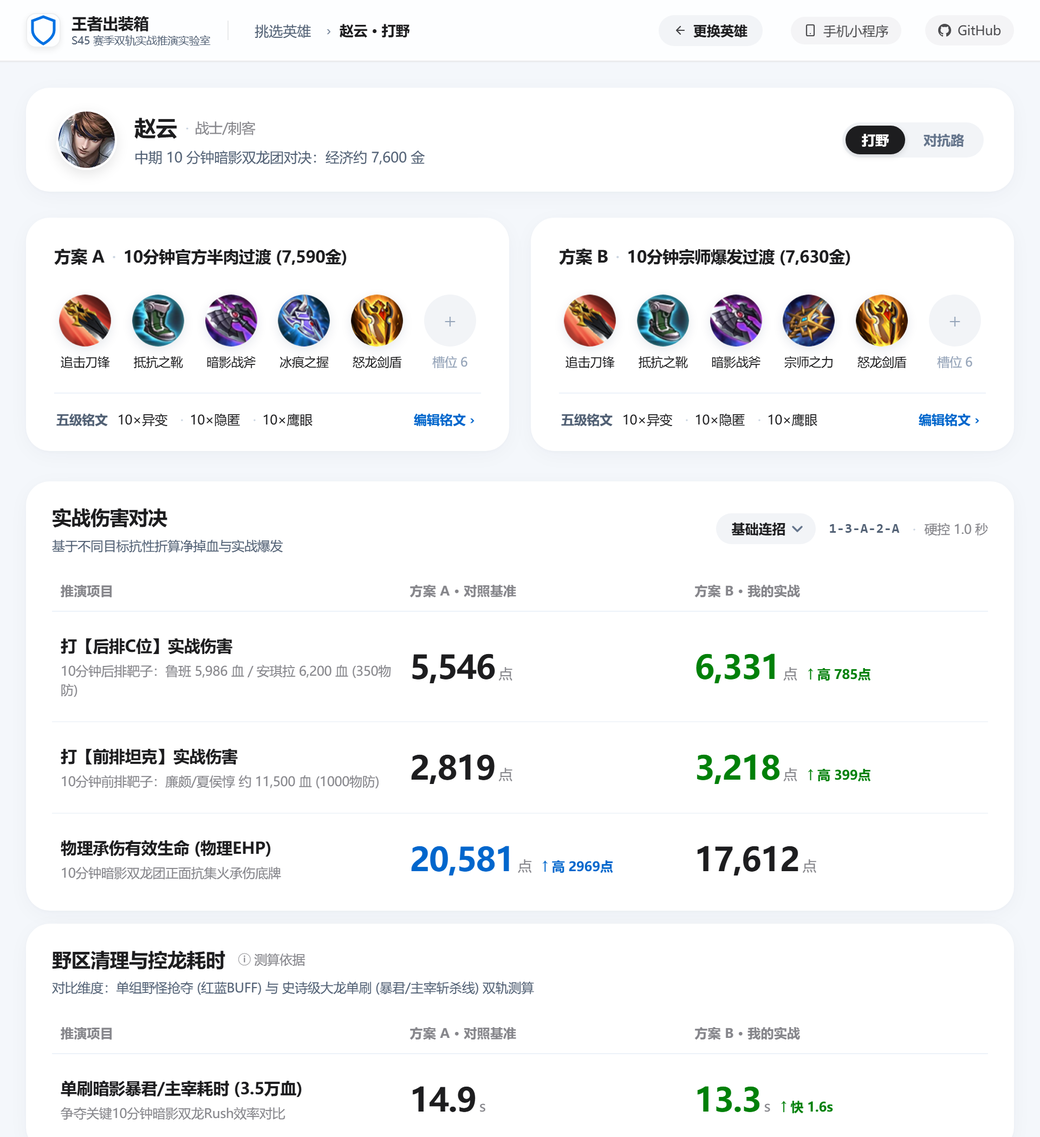
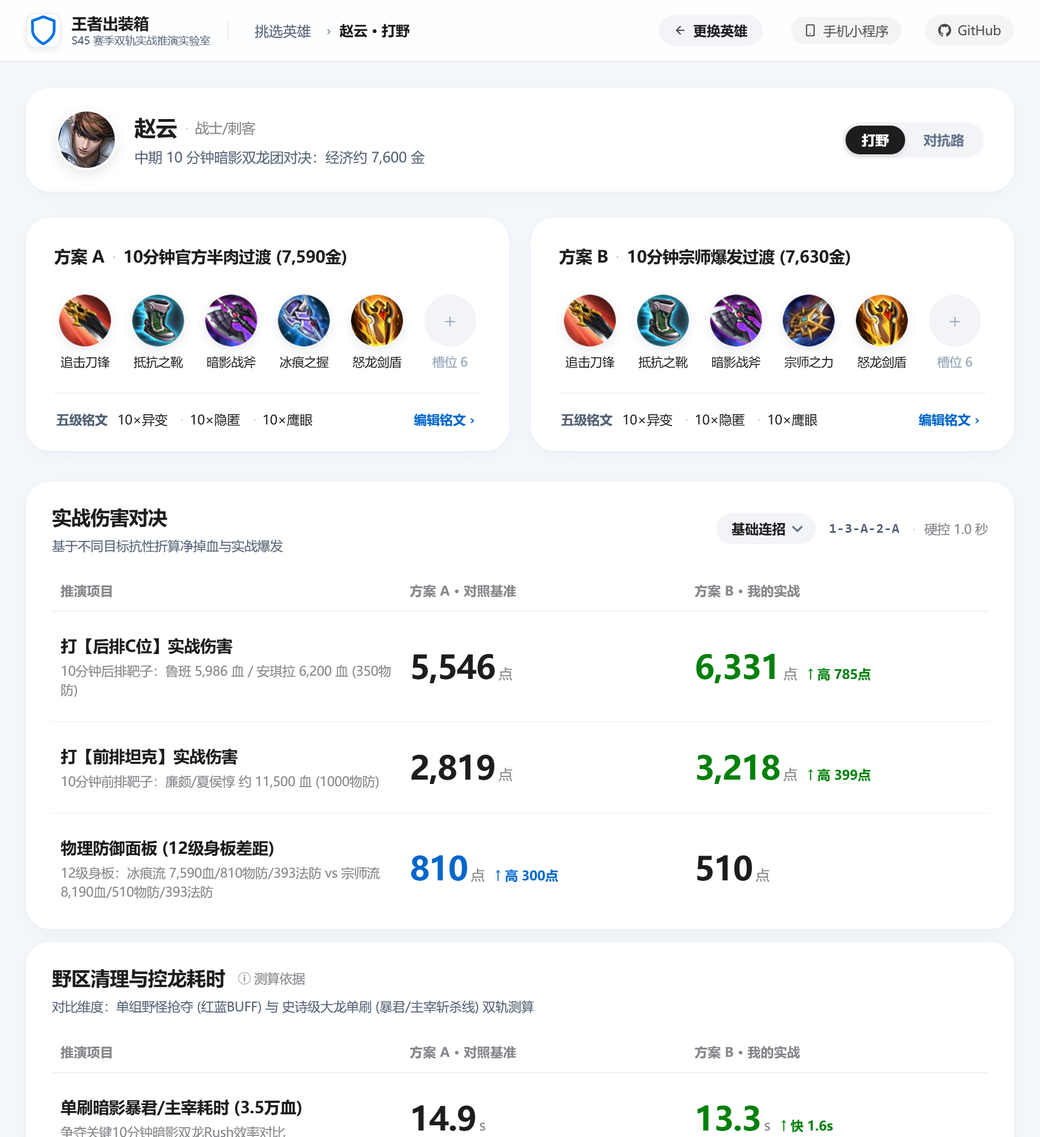
docs(guide): refine S45 Zhao Yun guide with 5-dimension evaluation framework and defense stats

diff --git a/docs/guides/zhaoyun_jungle_guide.md b/docs/guides/zhaoyun_jungle_guide.md
@@ -1,175 +1,192 @@
 # 赵云打野出装详解：从前中期过渡到后期三大变阵的数据拆解
 
-10月15日正式服对赵云的 2 技能回血和大招冷却做了一波调整。趁着这次改动，想结合我平时排位的实际体感和具体测试数据，和大家平静地聊一聊这个版本打野赵云的出装思路。
+10月15日正式服对赵云的 2 技能回血和大招冷却进行了调整。本文结合版本改动、训练营面板与「王者出装箱」推演数据，从**输出爆发、身板双抗（生命/物防/法防与承伤上限）、技能冷却与续航、机动性、经济合成与控龙效率**五个维度，对当前版本打野赵云的出装体系进行全面评估。
 
-平时单排玩赵云的朋友应该深有体会，这英雄走极端路线往往不太好赢：全输出装容错率实在太低，团战稍微吃个不明AOE或者小控制，大招还没落地人就先融化了；但要是纯堆肉，中期开始伤害就明显跟不上，一套技能全砸射手身上，对面可能还有小半管血反手把你风筝死。所以综合下来，兼顾容错和切C能力的**半肉流**依然是单排最稳的选择——这也是为什么这篇内容会拿**官方推荐半肉装**作为参考基准。
+赵云在出装走向上如果过于极端，实战容错率往往不高：全输出装身板过脆，团战吃到 AOE 或控制容易进场即被秒；纯肉装从中后期开始又会面临缺乏穿透与额外 AD 加成的问题，一套技能打不死后排反而容易被风筝。因此，兼顾容错率与切 C 能力的**半肉流**是目前综合表现更均衡的选择，本文也以**官方推荐半肉装**作为基准参照。
 
-不过同样是半肉底子，实战里大家经常会有纠结的地方：比如打野刀到底是贪点穿透出红刀，还是求稳出肉刀？最后两件装备该补不死鸟、暴烈还是碎星锤？其实玩多了就会发现，没有哪套出装是绝对完美的，换掉任何一件装备，本质上都是在**前中期抓人节奏、技能CD手感、以及团战能不能站得住**之间做取舍。
+同样是半肉底子，不同出装在实战中的优劣势差异明显：比如打野刀是出红刀补攻击与冷却，还是出肉刀撑万血？防装是保留怒龙剑盾、暴烈之甲，还是替换为不死鸟之眼、魔女斗篷或碎星锤？下面按照对局真实经济节奏，分**后期（15分钟六神装全局评估）、前期（5分钟第一大件与12格预设）、中期（8~10分钟大红刀升级节点与双龙团过渡）**进行拆解。
 
-为了不光靠主观感觉下结论，我用自己平时测数据用的「**王者出装箱**」，顺着排位真实的经济节奏，按**前期（5分钟第一大件）、中期（10分钟双龙团三大件）、后期（15分钟六神装）**三个时间点，把官方推荐装和另外 3 套常用变阵完整算了一遍。每套出装在不同阶段到底差在哪，我们结合数据和实战场景慢慢看。
-
-> **测试条件说明**：统一带百穿隐匿铭文（**10异变 + 10鹰眼 + 10隐匿**）；伤害按赵云最基础的一套进场连招 **1-3-A-2-A** 计算（1技能突进 + 大招击飞挂感电 + 强化普攻 + 2技能刺满 + 补一发普攻）。
+> **测试条件说明**：统一携带百穿隐匿铭文（**10异变 + 10鹰眼 + 10隐匿**）；伤害按赵云基础进场连招 **1-3-A-2-A** 计算（1技能突进 + 大招击飞挂感电 + 强化普攻 + 2技能4段刺满 + 补一发普攻）。
 
 ---
 
-## 一、 四套六神装整体对比：换一件装备，手感差在哪？
+## 一、 四套六神装全维度评估：优势与短板拆解
 
-在聊前中期怎么过渡之前，我们先看一眼 15 级满级六神装成型后，这 4 套出装在面板和实战表现上的整体差异：
+先看 15 级满级六神装成型后，官方推荐半肉流与 3 套常用变阵在「王者出装箱」五个核心维度上的完整数据对比：
 
-### 📊 表 1：赵云打野 4 套六神装核心数据对比（15级满级·满层野刀）
+### 📊 表 1：赵云打野 4 套六神装全维度数据对比（15级满级·满层野刀）
 
-| 对比维度 | ① 官方推荐半肉流 | ② 不死鸟续航流 | ③ 碎星锤破甲流 | ④ 肉刀破军流 |
+| 评估维度 | ① 官方推荐半肉流 | ② 不死鸟续航流 | ③ 碎星锤破甲流 | ④ 肉刀破军流 |
 | :--- | :--- | :--- | :--- | :--- |
 | **成型总金币** | 11,040 金 | **11,020 金** | 11,070 金 | 11,530 金 (最贵) |
-| **物攻 / 冷却缩减** | 761 / 32.5% | 761 / 32.5% | 816 / 32.5% | 711 / **35.0%** |
-| **生命 / 物防 / 法防** | 9,332 / **1,095** / 419 | 9,582 / 1,035 / **449** | 9,032 / 885 / 419 | **10,282 (万血)** / 885 / 419 |
-| **物穿 / 面板移速** | 280 / 494 | 280 / 494 | **280+30%** / **527 (最快)** | 280 / 494 |
-| **物理抗伤总量** | **26,306 (最抗物理)** | 26,056 | 22,310 | 25,398 |
-| **法术抗伤总量** | 15,827 | 16,729 | 15,318 | **17,438 (高血量撑腰)** |
-| **秒脆皮连招伤害** | 6,965 | 6,322 | 6,833 | **7,030 (爆发最高)** |
-| **打千防坦克伤害** | 3,541 | 3,213 | **4,022 (打肉最疼)** | 3,574 |
-| **2技能回血 (满血/残血)** | 1,323 / 1,323 | 1,348 / **1,961** | 1,307 / 1,307 | **1,406** / 1,406 |
-| **单刷大龙用时** | 11.2 秒 | 13.3 秒 | 11.3 秒 | **10.2 秒** |
+| **物理攻击 / 物理穿透** | 761 / 280 | 761 / 280 | **816** / **280+30%** | 711 / 280 |
+| **冷却缩减 (1/2/3技能CD)** | 32.5% (4.1/3.4/8.8s) | 32.5% (4.1/3.4/8.8s) | 32.5% (4.1/3.4/8.8s) | **35.0% (3.9/3.3/8.5s)** |
+| **最大生命值** | 9,332 | 9,582 | 9,032 (最低) | **10,282 (唯一破万)** |
+| **物理防御 (面板免伤)** | **1,095 (65%免伤)** | 1,035 (63%免伤) | 885 (60%免伤) | 885 (60%免伤) |
+| **法术防御 (面板免伤)** | 419 (41%免伤) | **449 (43%免伤)** | 419 (41%免伤) | 419 (41%免伤) |
+| **物理 / 法术承伤上限 (EHP)** | **26,306** / 15,827 | 26,056 / 16,729 | 22,310 / 15,318 | 25,398 / **17,438** |
+| **面板移速** | 494 | 494 | **527 (最快)** | 494 |
+| **打【中射】爆发伤害 (350防)** | 6,965 | 6,322 | 6,833 | **7,030 (最高)** |
+| **打【坦克】爆发伤害 (1000防)** | 3,541 | 3,213 | **4,022 (最高)** | 3,574 |
+| **2技能回血 (健康 / ≤30%残血)** | 1,323 / 1,323 | 1,348 / **1,961** | 1,307 / 1,307 | **1,406** / 1,406 |
+| **单刷大龙耗时 (3.5万血)** | 11.2 秒 | 13.3 秒 | 11.3 秒 | **10.2 秒** |
 
-从表里能很直观地看出来，这四套出装各有各的侧重点，没有哪一套是全能的。具体到排位里怎么选，我们可以挨个看看它们的脾气：
+从表中可以看到，没有任何一套出装能在所有维度同时占优，每套方案都是在**爆发伤害、打肉效率、物理/法术身板、残血续航与经济平滑度**之间做取舍。下面对四套方案的优势与短板逐一评估：
 
 ---
 
-### 1. 官方推荐半肉流：最稳妥的常规万金油
+### 1. 官方推荐半肉流：物理承伤与切 C 均衡的基准方案
 
 ![官方推荐半肉流](./assets/strip_01_official.png)
 
-这套是系统默认给的半肉方案，算完数据之后会发现，它能成为官方推荐确实是有道理的。
-
-它的优势在于**物防够高，同时切后排伤害刚好够用**。近 1100 的物防加上九千多血，团战进场抗对面射手和战边的伤害非常扎实；而且一套连招将近 7000 的伤害，再交个红惩击，刚好能把 15 级没出防装的呆射或法师收掉。
-
-但它也有两个玩起来比较难受的地方：一是只有黑切和红刀的固定穿透，后期碰到对面廉颇、白起这种过千护甲的大肉，一套打上去才三千出头，确实打不动；二是魔抗全靠抵抗鞋和黄盾（怒龙剑盾）撑着，如果对面法师发育很好，或者干脆是双法伤阵容，团战还没近身就容易被消耗掉大半管血。**如果两边阵容都比较常规、局势也比较均势，无脑按这套出是最不容易出错的。**
+* **核心优势**：
+  1. **物理抗伤能力最强**：三件防装（`冰痕之握 +300物防`、`暴烈之甲 +210物防`、`怒龙剑盾 +150物防`）将满级物防堆至 **1,095 点（65%物理免伤）**，配合 9,332 点生命值，折算物理承伤上限达 **26,306**（四套最高），正面承受敌方射手、物理刺客与战边的输出非常扎实；
+  2. **后排斩杀线与刷龙速度达标**：依托暗影战斧、冰痕强击、怒龙剑盾被动（3.5%最大生命物理伤害）以及暴烈之甲叠满后的 10% 增伤，一套连招打中射脆皮可达 **6,965 点**，配合红惩击刚好覆盖 15 级无防装后排（约 7,000 血）的斩杀线，单刷大龙仅需 **11.2 秒**；
+  3. **冷却与移速手感均衡**：常驻 32.5% 冷却缩减（2技能 3.4 秒、大招 8.8 秒），面板移速 494（触发暴烈被动最高可达 532）。
+* **主要短板**：
+  1. **法防面板偏薄（重物防、轻法防）**：全身仅靠 `抵抗之靴 (+100法防)` 和 `怒龙剑盾 (+150法防)` 提供魔抗，满级法防仅 **419 点（41%法术免伤）**，折算法术承伤上限为 15,827。到了中后期，敌方法师做出 `虚无法杖（45%法穿）` 与常规法穿铭文/秘法鞋后，这 419 点法防扣完穿透仅剩 **60~80 点（实际法术免伤跌至约 10%）**，面对高法伤阵容时容易被快速压低血线；
+  2. **缺乏百分比破甲**：仅有 280 点固定物穿，打千防坦克一套伤害为 **3,541 点**，后期处理多前排阵容效率有限。
+* **适用场景**：双方阵容常规、敌方法术威胁适中、单前排的均势对局。
 
 ---
 
-### 2. 不死鸟续航流：残血拉扯与抗法伤首选
+### 2. 不死鸟续航流：强化残血回复拉扯，但牺牲爆发且面板法防提升有限
 
 ![不死鸟续航流](./assets/strip_02_phoenix.png)
 
-这套是把官方流里的黄盾（怒龙剑盾）换成了 `不死鸟之眼`。
+这套是将官方流中的怒龙剑盾替换为 `不死鸟之眼`。
 
-很多人平时爱出不死鸟，主要是因为它跟赵云的被动机制特别搭。赵云血量降到 40% 以下进入三档【飞龙在天】时，本身就有 20% 的免伤；而此时不死鸟的回血加成也叠起来了。从测试数据来看，30% 血量以下扎出一个 2 技能，一口能回 **1,961 点血**，比不出不死鸟足足多回六百多。实战里那种残血丝血反杀、或者吃完一套法师爆发扭头扎野怪一口回上来的名场面，基本都是这套出装打出来的。
-
-不过换掉黄盾之后，代价也很明显——**你失去了单人满血秒后排的能力**。一套技能打脆皮只有 6,322 的伤害，如果没队友帮忙压血线，你大招扎进去打完一套，对面射手往往还剩丝血能闪现拉开，你得追着多平A一两下才杀得死，打龙速度也会慢上两秒左右。所以这套更适合**对面有火舞、安琪拉、干将这种高爆发法师，或者对面是双法核（比如中单法师+法系打野/大司命/艾琳）**的对局，先保证自己进场不蒸发，再去谈持续作战。
+* **核心优势**：
+  1. **残血极限续航与多轮拉扯能力突出**：赵云血量低于 40% 进入三档被动【飞龙在天】时自带 **20% 免伤**，此时不死鸟之眼的血统被动同步叠高。实测在 30% 血量以下释放 2 技能，单次可回复 **1,961 点生命**（比官方流多回 **638 点**），在持续拉扯团战与残血反打中优势明显；
+  2. **生命值与物防依然稳固**：生命值提升至 **9,582 点**，物理防御保持在 **1,035 点（63%物理免伤）**，物理承伤上限（26,056）与官方流基本持平。
+* **主要短板**：
+  1. **失去单人满血秒 C 能力，刷龙变慢**：换掉怒龙剑盾后，失去其按最大生命值计算的被动伤害，打后排脆皮一套伤害降至 **6,322 点**（比官方流少 643 点），无法一套秒杀满血后排，进场打完一套需追击补一两发普攻；单刷大龙耗时也从 11.2 秒增加到 **13.3 秒**；
+  2. **面板法防仅比官方流多 30 点（419 → 449）**：被替换的 `怒龙剑盾` 本身带有 150 法防，而 `不死鸟之眼` 为 `+90物防 / +180法防 / +1350生命`，替换后面板法防仅升至 **449 点（43%法术免伤，仅提高 2%）**。因此它抗法伤的机制是“吃完第一波伤害不死、靠 2 技能高额回血把血线抬回来”，而非靠高魔抗硬吃爆发。若敌方是安琪拉、干将莫邪、不知火舞等超高爆发法师且发育超前，一套直接灌死不给回血机会，则应将不死鸟替换为 **`魔女斗篷`（`+300法防 / +1100生命`，面板法防提至 `569`［49%免伤］并附带 `1,000+` 法术护盾与被动转化 `45物防`）**。
+* **适用场景**：敌方为消耗型法师（沈梦溪、嬴政、扁鹊等）、双法伤阵容或多回合拉扯团战。
 
 ---
 
-### 3. 碎星锤破甲流：专治多前排与防装射手
+### 3. 碎星锤破甲流：双穿与移速拉满，但身板双防与血量最薄
 
 ![碎星锤破甲流](./assets/strip_03_fullcd.png)
 
-平时打排位最头疼的一种局，就是对面选出张飞、廉颇、夏侯惇这种大前排死保射手，甚至连对面的狄仁杰、公孙离到了中后期都补了一件不祥征兆。这时候你再按常规半肉出，进场根本切不动人。
+这套是将官方流最后一件暴烈之甲替换为 `碎星锤`。
 
-把最后一件暴烈之甲换成改版后的 `碎星锤`，就是专门用来处理这种铁桶阵的。现在的碎星锤除了 30% 物理穿透，还给 700 血量和 7.5% 移速。跟黑切叠在一起做成“双穿”之后，不仅打坦克疼了很多，更重要的是**面板移速直接来到了 527**（比另外三套快了 33 点）。平时玩赵云的朋友都知道移速有多关键，高移速意味着你支援转线更快，团战打完一套拉出来等技能CD也更从容。
-
-当然，少了暴烈之甲的 210 点物防，你的正面抗揍能力会掉一个档次（物理抗伤总量少了大概四千点）。选这套的时候，团战思路就要稍微变一变，不能再像重装流那样正面硬吃伤害，而是多利用移速优势绕侧面找机会，打完一套先拉扯出来等第二个 2 技能。
+* **核心优势**：
+  1. **打前排与半肉后排效率最高**：暗影战斧（180物穿）+ 百穿铭文（100物穿）+ 碎星锤（30%物穿）组成“双穿”，物理攻击升至四套最高的 **816 点**，打千防坦克一套伤害提升至 **4,022 点**（比官方流高约 14%），打补出不祥征兆的半肉射手（620物防）伤害达 **5,296 点**；
+  2. **机动性全方案最高**：碎星锤提供 7.5% 移速加成，使常态面板移速达到 **527 点**（比其余三套快 33 点），带线牵制、支援转线与团战侧翼进出更加灵活。
+* **主要短板**：
+  1. **身板在四套中最薄**：少了暴烈之甲的 210 点物防与 300 点生命差额后，最大生命值降至 **9,032 点**（四套最低），**物理防御从 1,095 降至 885 点（60%物理免伤）**，法术防御仍为 **419 点（41%法术免伤）**，折算物理承伤上限降至 **22,310**（比官方流低约 4,000 点），正面抗集火能力明显下降；
+  2. **打无防装脆皮伤害略低于暴烈之甲**：面对 350 物防的无防装后排，30% 物理穿透换算出的破甲收益低于暴烈之甲满层 10% 增伤，因此秒脆皮伤害（6,833）反而比官方流（6,965）低 132 点。
+* **适用场景**：敌方多前排坦克（张飞、廉颇、夏侯惇、白起）保排，或敌方射手在中后期补出不祥征兆/暴烈之甲的对局；团战需避开正面硬顶，利用高移速从侧翼切入拉扯。
 
 ---
 
-### 4. 肉刀破军流：顺风局的万血收割装
+### 4. 肉刀破军流：万血高斩杀与最快控龙，但双防偏低且中期合成卡手
 
 ![肉刀破军流](./assets/strip_04_meat_pojun.png)
 
-如果既想要破万血的厚实身板，又想保留一套秒人的爽快感，很多老赵云会走这套「肉刀 + 黄盾 + 破军」的路线。
+这套采用「巨人之握 + 怒龙剑盾 + 破军」的组合，以高血量联动黄盾被动与破军斩杀。
 
-巨人之握叠满之后血量直接破万（10,282 血）。高血量对赵云有双重好处：一方面 2 技能回血有生命值加成，另一方面黄盾的被动伤害也是按最大生命值算的。再加上破军改版后补了 5% 冷却缩减，这套成型之后的面板非常豪华——**万血、35% 冷却、7,030 的最高切C爆发、外加 10.2 秒的最快刷龙速度**。
-
-既然成型这么强，为什么不每把都出？原因很简单：**太贵，而且憋破军的那段时间太难受了**。破军一件就要 2,540 金币，比别的装备贵出小五百块，合成路径里还要憋两把风暴巨剑。如果是均势局甚至逆风局，你在中期花两三分钟强行憋破军，这段时间身上一直没大件更新，团战会非常乏力。所以这套我一般只在**前期大顺风、经济领先明显**，或者**自家队友实在缺少收割能力、必须靠我一个人把对面后排按死**的时候才会出。
+* **核心优势**：
+  1. **万血联动高爆发与最快控龙**：巨人之握叠满后生命值达到 **10,282 点**（唯一破万），同时放大了 2 技能的生命加成回血（常态回 **1,406 点**）与怒龙剑盾按最大生命计算的被动伤害；配合破军 +150 物攻与残血 30% 增伤，秒脆皮伤害达到最高的 **7,030 点**，单刷大龙缩短至 **10.2 秒**；
+  2. **冷却最高且抗法伤/真伤容错更好**：破军提供 5% 冷却缩减，使总冷却达到 **35.0%**（2技能 3.3 秒、大招 8.5 秒）；虽然面板法防同样为 419 点，但凭借 10,282 的高血量池，折算法术承伤上限达到 **17,438**（四套最高），面对高法穿法师或吕布、马可波罗等真实伤害英雄时比单纯堆物防更耐打。
+* **主要短板**：
+  1. **成型造价最贵、中期合成断档期长**：总价 **11,530 金币**（比其余三套贵约 500 金币），其中破军单件高达 2,540 金币且需攒两把风暴巨剑，均势或逆风局在中期憋破军会导致长时间无大件更新；
+  2. **物理防御偏低（885 点）**：由于未出暴烈之甲，面板物防仅 **885 点（60%物理免伤）**，面对敌方射手持续物理普攻时掉血速度比官方流快。
+* **适用场景**：前期大顺风、经济明显领先，或团队缺乏收割能力、需要打野提供主力斩杀的对局。
 
 ---
 
-## 二、 前期与局内12格预设：第一大件千万别按系统顺序先出黄盾
+## 二、 前期（4~5分钟）与局内12格预设：第一大件的机制与数值对比
 
-聊完了六神装的取向，我们回到开局前 5 分钟的合成细节。这也是很多刚上手半肉赵云的朋友最容易踩坑的地方。
+在系统默认的官方推荐出装顺序中，`怒龙剑盾`（黄盾）排在 `暗影战斧`（黑切）之前。但从装备机制、合成路径与 5 分钟数值测算来看，**第一大件应优先调整顺序先出暗影战斧，不宜第一件裸出怒龙剑盾**：
 
-大家如果直接点开系统推荐出装，会发现系统经常把 `怒龙剑盾`（黄盾）排在 `暗影战斧`（黑切）前面。但实战里，**第一大件一定要手动调顺序先出暗影战斧，千万不要第一件裸黄盾。**
+1. **被动收益机制差异**：怒龙剑盾的被动重创伤害（对野怪 7% 最大生命、对英雄 3.5% 最大生命）与回血均按**最大生命值百分比**计算。在 4~5 分钟（约 7 级）节点，赵云基础血量尚低且没有其他生命装支撑，裸出黄盾的被动收益有限；
+2. **S45 合成小件属性差异**：怒龙剑盾由 `守护者之铠 (800金) + 神隐斗篷 (800金)` 合成，属于纯防御装，**不提供物理攻击、物理穿透与冷却缩减**；而暗影战斧由 `陨星 (760金，铁剑+元流结晶) + 日冕 (750金)` 合成，前期先花 760 金币做出 **陨星**（`+35物攻 / +50物穿 / +7.5%冷却`），能够直接发挥赵云技能的高额 AD 加成并缩短技能真空期。
 
-为什么先出黄盾会觉得特别“刮痧”？这和黄盾的机制以及合成小件有关：
-1. **被动吃最大生命值**：黄盾的被动重创伤害和回血，都是按英雄的**最大生命值百分比**来算的。在游戏刚到 4~5 分钟（大概 7 级）的时候，赵云本身的基础血量还没长起来，身上也没有别的肉装支撑，裸一个黄盾根本打不出多少被动伤害；
-2. **合成小件零进攻属性**：看 S45 的合成路径，黄盾是由 `力量腰带 (900金) + 神隐斗篷 (800金)` 合成的纯防装，**不加一点攻击力、穿透和冷却缩减**；而暗影战斧是由 `陨星 (760金，铁剑+元流结晶) + 搏击拳套 (550金)` 合成的，前期先花 760 金币做出 **陨星**（`+35物攻 / +50物穿 / +7.5%冷却`），赵云技能的高额 AD 加成和刷野抓人节奏立刻就出来了。
-
-为了方便大家直接在游戏里照着配装，我把经过实战和数值测算优化后的 **「局内 12 格小件预设与合成路线」** 整理在了下面，再把 5 分钟（7级，约 3,490 金币）先出黑切与先出黄盾的实测对比放出来：
+下面是结合全时期过渡整理的 **「局内 12 格小件预设与合成路线」**，以及 5 分钟（7级，约 3,490 金币）先出暗影战斧与先出怒龙剑盾的实测对比：
 
 ![局内12格小件过渡与合成路线](./assets/strip_05_early_order.png)
 
 ![5分钟前期：先出暗影战斧 vs 先出怒龙剑盾 实测对比](./assets/ui_01_early_5min.png)
 
-看上面的实测图就能明白为什么体感差距那么大了：
-7 级的时候，对面后羿、鲁班、安琪拉这些脆皮的满血量基本都在 **4,050 ~ 4,150** 左右。如果你第一件先出暗影战斧（第 4 格先做 760 金币的陨星过渡），一套连招能打 **4,075 点伤害**，配合线上队友随便蹭一下或者交个惩击，抓人是一抓一个准；但要是先出了黄盾，一套打完只有 **3,295 点伤害**，足足差了近 800 滴血，经常是大招扎中了、技能也全交了，结果眼睁睁看着对面丝血交闪跑回塔下。就连前期单开第一条暴君或主宰，先出黑切也要快上 3 秒多。
+从 5 分钟（7级）实测对比可以看到两者的具体得失：
+* **先出暗影战斧（3,490金）**：打后排脆皮一套连招 **4,075 点伤害**，恰好达到 7 级脆皮（满血约 **4,050 ~ 4,150**）的斩杀线，配合队友或红惩击即可完成击杀；单刷第一条暴君/主宰耗时 **26.4 秒**（快 3.3 秒）。
+* **先出怒龙剑盾（3,440金）**：优势是 7 级多了 600 点血量与 150 物防/150 法防，抗伤容错更高；但短板是 0 冷却缩减，且打后排一套仅有 **3,295 点伤害**（少 **780 点**），前中期抓人难以独立完成击杀。
 
 ---
 
-## 三、 中期（8~10分钟）：为什么冰痕之后要立刻升「大红刀」？双龙团怎么过渡？
+## 三、 中期（8~10分钟）：大红刀的最佳升级节点与双龙团过渡评估
 
-很多朋友玩打野有个习惯：出门升了二级红刀（`追击刀锋`）之后，就一直憋大件，把三级大红刀（`贪婪之噬`）拖到第 6 件神装才升。**但在当前版本，把二级红刀拖到大后期其实非常亏节奏——最佳的升级节点，是在 8分半刚做完第二件大件「冰痕之握」之后立刻升大红刀！**
+### 1. 三级打野刀「贪婪之噬（大红刀）」应该在什么时间点升级？
 
-### 1. 先算一笔很多人没注意到的「640 金币超额属性账」
+在系统推荐出装中，`贪婪之噬` 默认排在第 1 格，但实战中过早合成或拖到大后期合成都会造成属性亏损。结合野刀叠层速度、身板双抗与 S45 合成路径测算，**最优升级节点是在 8分半刚做完第二件大件「冰痕之握」之后立即升级大红刀**：
 
-为什么要在这个节点升三级红刀？我们看两个硬数据就明白了：
-* **二级红刀（追击刀锋）有 15 层封顶限制**：`追击刀锋 (700金)` 最高只能叠 **15 层**（合计 `+70 物攻`，而且**没有冷却缩减、也没有移速加成**）。正常刷野节奏在 **5分半~6分钟** 就已经刷满 15 层封顶了。等到 8分半你做完黑切和冰痕时，野怪层数其实已经刷到了 **22~25 层**——如果你不升三级刀，多刷的这近 10 层攻击力、全部冷却缩减和移速，全都处于“锁死不生效”的状态。
-* **S45 大红刀的合成公式红利**：现在 `贪婪之噬 (2100金) = 追击刀锋 (700金) + 陨星 (760金) + 640金合成费`。在 8分半做完冰痕之握后，你先花 760 金币买个 **陨星**（冷却缩减立刻从 20% 提到 **27.5%**，物攻+35）；紧接着**只需要再掏 640 金币合成费**升成大红刀，这 640 金币就能瞬间帮你解锁 22~25 层的完整属性：
-  1. **面板物攻直接暴涨 95 点**（从二级刀的 70 攻跳到满层 **165 攻**，比带着陨星还净增 60 点物攻）；
-  2. **冷却缩减直接拉到 32.5%**（解锁全额 **12.5% 冷却**，拿个蓝 Buff 直接满 40% CD 上限，无蓝状态下 2 技能也只需 **3.38 秒**、大招 **8.78 秒**）；
-  3. **白拿 5% 移速加成**（面板移速从 473 直接跳到 **495**），同时红惩对英雄的灼烧伤害从 10% 翻倍到 **25%**。
-* **为什么不在第一件刚做完黑切（6分半）就升大红刀？** 因为 6分半才 9 级，野刀刚满 15 层还没溢出多少，而且身上没有护甲装（物理抗伤只有 11,983，比先出荆棘护手+雪山圆盾少了近 3,700 点抗伤），团战太脆容易被秒；而等到 **8分半做完冰痕之握（物防已达 731 点、物理抗伤近 1.8 万）** 再补陨星升大红刀，坦度已经立住了，刚好在 **9分半再花 800 金币补一件「神隐斗篷」（+150法防/+450生命）** 迎接 10 分钟的暗影双龙团！
+* **二级红刀（追击刀锋）的 15 层上限锁死问题**：`追击刀锋 (700金)` 最高仅能叠加 **15 层**（合计 `+70 物攻`，且**无冷却缩减、无移速加成**），正常刷野节奏在 **5分半~6分钟** 即可叠满 15 层。到 8分半做完暗影战斧与冰痕之握时，野怪层数已累积至 **22~25 层**——若仍停留在二级刀，多刷的层数攻击力、冷却缩减与移速加成均处于锁死不生效状态。
+* **S45 大红刀的 640 金币合成收益**：`贪婪之噬 (2100金) = 追击刀锋 (700金) + 陨星 (760金) + 640金合成费`。在 8分半做完冰痕之握后，先花 760 金币购入 **陨星**（冷却缩减从 20% 提升至 **27.5%**，物攻+35）；紧接着**仅需补 640 金币合成费**升级大红刀，即可立即解锁 22~25 层的完整属性：
+  1. **面板物攻提升 95 点**（从二级刀的 70 攻提升至满层 **165 攻**，比携带陨星净增 60 点物攻）；
+  2. **冷却缩减达到 32.5%**（解锁全额 **12.5% 冷却**，拿蓝 Buff 直接满 40% CD 上限，无蓝状态下 2 技能冷却仅 **3.38 秒**、大招 **8.78 秒**）；
+  3. **获得 5% 移速加成**（面板移速从 473 提升至 **495**），同时红惩对英雄的灼烧伤害比例从 10% 提升至 **25%**。
+* **为什么不在 6分半刚做完黑切就升大红刀，且 9分半要先补「神隐斗篷」？（中期身板双抗平衡）**：
+  1. **6分半裸升大红刀的短板（缺物防）**：6分半（约 9 级）刚做完暗影战斧时，赵云没有任何护甲装，**面板物防仅 325 点（35%物理免伤），折算物理承伤仅 11,983**。若此时花 1,400 金币先升大红刀，物防过低极易在野区遭遇战中被秒；而先买 `荆棘护手 (+150物防)` 合出 `冰痕之握 (+300物防)`，8分半时**面板物防升至 660 点（52%物理免伤），物理承伤提至近 1.8 万**，物理身板稳固后再升大红刀容错率更高。
+  2. **9分半补神隐斗篷解决法防短板**：8分半升完大红刀后，赵云物防已有 660 点，但全身只有一双抵抗之靴，**法防仅有 243 点（29%法术免伤）**。因此在 9分半（第 10 格）花 800 金币补出 **`神隐斗篷 (+150法防 / +450生命)`**，可将 10 分钟双龙团的**法防从 243 直接拉高到 393 点（40%法术免伤，与做完整个怒龙剑盾的法防完全一致），物理承伤也同步升至 20,403**，用 800 金币提前补齐双抗。
 
-### 2. 10分钟暗影双龙团（约 7,600~7,750 金币）7 种过渡方案对比
+### 2. 10分钟暗影双龙团（约 7,600~7,750 金币）7 种过渡方案全维度对比
 
-打到 10 分钟暗影暴君和暗影主宰刷新时，正常发育的赵云一般在 **12 级、经济 7,600~7,750 金币左右**。我把「冰痕后升大红刀+神隐斗篷」和传统的 6 种二级野刀三大件走法放在一起算了一遍：
+10 分钟暗影暴君与暗影主宰刷新时，正常发育的赵云一般在 **12 级、经济 7,600~7,750 金币左右**。下面将「冰痕后升大红刀 + 神隐斗篷」与 6 种二级野刀三大件过渡方案进行全维度对比：
 
 ### 📊 表 2：10分钟中期（12级·约7,600~7,750金币）7 种过渡方案对比
 
-| 10分钟出装组合 | 总金币 | 冷却 | 秒后排伤害 (350防) | 打前排伤害 (1000防) | 物理抗伤总量 | 2技能回血 (常态/残血) | 单刷暗影大龙 |
+| 10分钟出装组合 | 总金币 | 冷却 | 12级面板 (生命/物防/法防) | 物理承伤 (EHP) | 秒后排伤害 (350防) | 打前排伤害 (1000防) | 单刷暗影大龙 |
 | :--- | :--- | :--- | :--- | :--- | :--- | :--- | :--- |
-| **★ 冰痕升大红刀** (`大红刀+黑切+冰痕+神隐`) | 7,750 | **32.5%** | **5,505 (满CD高攻)** | 2,798 | 20,403 (兼法抗) | 1,101 / 1,101 | **13.6 秒** |
-| **① 传统卡2级刀** (`2级红刀+黑切+黄盾+冰痕`) | 7,590 | 20% | 5,546 | 2,819 | 20,581 | 1,191 / 1,191 | 14.9 秒 |
-| **② 提前魔抗** (`2级红刀+黑切+冰痕+不死鸟`) | 7,570 | 20% | 5,023 | 2,553 | 20,343 (法抗高) | 1,216 / **1,769** | 17.9 秒 |
-| **③ 提前破甲** (`2级红刀+黑切+冰痕+碎星锤`) | 7,630 | 20% | 5,702 | **3,357 (打肉最高)** | 17,616 | 1,173 / 1,173 | 15.5 秒 |
-| **④ 肉刀扎实** (`2级肉刀+黑切+黄盾+冰痕`) | 7,590 | 20% | 5,209 | 2,648 | **22,680 (最肉)** | **1,258** / 1,258 | 14.1 秒 |
-| **⑤ 宗师爆发** (`2级红刀+黑切+黄盾+宗师`) | 7,630 | 10% | **6,331 (秒C最高)** | 3,218 | 17,612 | 1,251 / 1,251 | **13.3 秒 (最快)** |
-| **⑥ 极寒叠CD** (`2级红刀+黑切+黄盾+极寒`) | 7,570 | 30% | 4,635 | 2,356 | 21,173 | 1,237 / 1,237 | 18.6 秒 |
+| **★ 冰痕升大红刀** (`大红刀+黑切+冰痕+神隐`) | 7,750 | **32.5%** | 6,940 / 660 / **393** | 20,403 | **5,505 (满CD高攻)** | 2,798 | **13.6 秒** |
+| **① 传统卡2级刀** (`2级红刀+黑切+黄盾+冰痕`) | 7,590 | 20% | 7,590 / **810** / 393 | 20,581 | 5,546 | 2,819 | 14.9 秒 |
+| **② 提前魔抗** (`2级红刀+黑切+冰痕+不死鸟`) | 7,570 | 20% | 7,840 / 750 / **423** | 20,343 | 5,023 | 2,553 | 17.9 秒 |
+| **③ 提前破甲** (`2级红刀+黑切+冰痕+碎星锤`) | 7,630 | 20% | 7,190 / 660 / 243 (缺法防) | 17,616 | 5,702 | **3,357 (打肉最高)** | 15.5 秒 |
+| **④ 肉刀扎实** (`2级肉刀+黑切+黄盾+冰痕`) | 7,590 | 20% | **8,190** / **810** / 393 | **22,680 (最肉)** | 5,209 | 2,648 | 14.1 秒 |
+| **⑤ 宗师爆发** (`2级红刀+黑切+黄盾+宗师`) | 7,630 | 10% | 8,190 / 510 (缺物防) / 393 | 17,612 | **6,331 (秒C最高)** | 3,218 | **13.3 秒 (最快)** |
+| **⑥ 极寒叠CD** (`2级红刀+黑切+黄盾+极寒`) | 7,570 | 30% | 8,190 / 750 / 393 | 21,173 | 4,635 | 2,356 | 18.6 秒 |
 
-另外，大家平时在中期还经常纠结 **「半肉稳扎稳打（冰痕）」** 和 **「顺风纯爆发（宗师）」** 的伤害差距，我们也把这两套的 10 分钟实测面板对比拉出来看一下：
+针对中期常见的 **「半肉过渡（冰痕之握）」** 与 **「爆发过渡（宗师之力）」** 两种思路，10 分钟节点的实测对比如下：
 
 ![10分钟中期：常规半肉过渡(冰痕) vs 宗师爆发过渡(宗师) 实测对比](./assets/ui_02_mid_10min.png)
 
-结合排位里的实际对局，中期 8~10 分钟这个节点我个人的选择习惯是这样的：
+结合表 2 的多维数据，中期 8~10 分钟不同过渡路线的优劣势与适用场景如下：
 
-* **绝大多数均势局，走「黑切 → 冰痕 → 陨星升大红刀 → 神隐斗篷合黄盾」**：
-  按前面 12 格预设的节奏，做完黑切先花 750 金币买个 `荆棘护手` 撑护甲合出 `冰痕之握`；8分半紧接着出 `陨星` 升 `贪婪之噬`（大红刀），把冷却拉满到 **32.5%**、面板物攻拉到 **681 点**；再花 800 金币补个 `神隐斗篷` 打 10 分钟双龙团。你会发现这套比以前为了凑冷却去出极寒风暴（连招只有 4,635 伤害）强太多了——既有 32.5% 的丝滑技能衔接和 495 高移速，双抗和爆发也全在线，打完龙顺势把神隐斗篷合成为 `怒龙剑盾` 即可。
-* **前期大顺风想快速平推，可选「宗师爆发过渡」**：
-  如果前 8 分钟你拿了三四个人头，节奏特别顺，想在 10 分钟靠个人能力直接打崩对面，可以把冰痕换成 `宗师之力`。12 级的射手和法师满血也就六千出头，出半肉那套如果碰到对面辅助给口小治疗或者套个盾，可能还会差一丝血；但换成宗师之后，一套爆发直接来到 **6,331 点**，哪怕对面满血也没法活，而且一个人偷暗影大龙只要 13.3 秒。只是要注意，出宗师少了 300 物防和冷却，进场时机得挑准一点。
-* **特殊阵容灵活微调小件顺序**：
-  如果在 8 分钟刚做完冰痕之握时，发现对面的不知火舞、安琪拉或者干将已经连拿几个人头天肥，你只需要在局内**先把第 10 格的 `神隐斗篷 (800金)` 提前点出来保命**，下一波野怪再补 `陨星 → 贪婪之噬`，随后直接把神隐斗篷合成 `不死鸟之眼`；反过来，如果对面双前排抱团推塔特别紧，做完冰痕和大红刀后就直接转 `碎星锤`，谁顶在前面就先打残谁。
+* **常规均势局最优解：「黑切 → 冰痕 → 陨星升大红刀 → 神隐斗篷合黄盾」**：
+  - **优势**：相比传统卡 2 级野刀先出三大件的方案①（仅 20% 冷却、473 移速、刷龙 14.9 秒），这套路线在保持几乎相同的连招爆发（5,505）、法防（393）与物理承伤（20,403）的同时，**多拿到了 32.5% 满档冷却缩减、495 高移速与 13.6 秒的刷龙速度**；相比为了凑冷却去出极寒风暴的方案⑥（连招伤害仅 4,635、刷龙 18.6 秒），伤害高出近 900 点、刷龙快 5 秒。
+  - **短板**：10 分钟节点尚未合出怒龙剑盾成品，少了 650 点生命与 150 点物防，打完双龙团后需再补 1,240 金币将神隐斗篷合成为 `怒龙剑盾`。
+* **前期大顺风终结比赛：「宗师爆发过渡（方案⑤）」**：
+  - **优势**：一套连招打后排高达 **6,331 点**（可直接满血秒杀 12 级约 6,000 血的射手/法师），单刷暗影大龙仅需 **13.3 秒**（全场最快）。
+  - **短板**：少了冰痕之握的 300 点物防（12级物防仅 **510 点**，物理承伤降至 17,612）与 10% 冷却缩减（仅 10% CD），正面抗物理集火能力弱，且缺乏冰痕的范围减速留人。
+* **针对敌方天肥法师或双前排的微调**：
+  - 若 8 分钟敌方高爆发法师发育超前，可**先提前买出第 10 格的 `神隐斗篷 (800金)` 将法防从 243 拉到 393**，再补 `陨星 → 贪婪之噬`，随后将神隐斗篷合成为 `不死鸟之眼` 或 `魔女斗篷`；
+  - 若敌方双前排护甲成型快、抱团推塔紧，可走提前破甲路线（方案③，打千防前排伤害 **3,357**），但需注意此时法防仅有 **243 点**，团战需避免正面吃法师消耗。
 
 ---
 
-## 四、 后期（15分钟+）：面对不同护甲对手的真实伤害与续航实测
+## 四、 后期（15分钟+）：面对不同护甲目标的连招伤害与续航实测
 
-拖到 15 分钟以后，大家都 15 级六神装了。很多时候后期团战打不赢，是因为对自己的伤害没有准确预期——不知道这一枪扎下去到底能不能秒掉人。我把 4 套六神装打 5 类不同护甲对手的实测伤害列在下面，方便大家心里有个底：
+对局进入 15 分钟后，双方均已达到 15 级六神装。下面列出 4 套六神装面对 5 类不同护甲目标的实测连招伤害，便于在后期团战中判断斩杀线与目标选择：
 
 ### 📊 表 3：15分钟六神装对阵 5 类满级目标的连招伤害对比
 
 | 15级敌方目标类型 | 满级血量 / 物防参考 | ① 官方半肉流 | ② 不死鸟续航流 | ③ 碎星锤破甲流 | ④ 肉刀破军流 | 后期团战处理建议 |
 | :--- | :--- | :--- | :--- | :--- | :--- | :--- |
 | **无防装脆皮** (呆射/常规法师) | ~7,000 血 / 350防 | **6,965** | 6,322 | 6,833 | **7,030** | 官方流与破军流配惩击可直接秒；不死鸟流需多补一发平A |
-| **半肉后排** (出不祥的狄仁杰/阿离) | ~8,320 血 / 620防 | 4,969 | 4,510 | **5,296** | 5,015 | 满血状态下哪套都秒不掉，建议出**碎星锤**或等队友先压血线 |
-| **对抗路战士** (铠/孙策/夏洛特) | ~9,800 血 / 750防 | 4,366 | 3,963 | **4,778** | 4,407 | 别指望一套秒，靠 3 秒出头一个的 2 技能和冰痕减速拉扯打两套 |
-| **常规坦克前排** (廉颇/夏侯惇) | ~13,500 血 / 1,000防 | 3,541 | 3,213 | **4,022** | 3,574 | 大招千万别交在前排身上，可以用 2 技能刮前排回血顺便挂感电 |
-| **极限大肉** (白起/项羽) | ~15,000 血 / 1,200防 | 3,075 | 2,791 | **3,570** | 3,104 | 对面护甲过千二时，只有**碎星锤流**打得动，其余三套基本在挠痒 |
+| **半肉后排** (出不祥的狄仁杰/阿离) | ~8,320 血 / 620防 | 4,969 | 4,510 | **5,296** | 5,015 | 满血状态下无法单套秒杀，建议出**碎星锤**或等队友先压血线 |
+| **对抗路战士** (铠/孙策/夏洛特) | ~9,800 血 / 750防 | 4,366 | 3,963 | **4,778** | 4,407 | 单套技能无法秒杀，需利用 3.4 秒一个的 2 技能与冰痕减速拉扯打两套 |
+| **常规坦克前排** (廉颇/夏侯惇) | ~13,500 血 / 1,000防 | 3,541 | 3,213 | **4,022** | 3,574 | 大招优先留给后排，可用 2 技能刮前排回血并叠加感电 |
+| **极限大肉** (白起/项羽) | ~15,000 血 / 1,200防 | 3,075 | 2,791 | **3,570** | 3,104 | 护甲超过 1,200 时，仅**碎星锤流**具备可观杀伤力 |
 
-另外，前面提到「官方推荐半肉流」和「不死鸟续航流」在后期最大的区别在于生存和回血机制，大家也可以直接看这张 15 分钟的完整实测图：
+「官方推荐半肉流」与「不死鸟续航流」在 15 分钟满级节点的完整面板与续航实测对比如下：
 
 ![15分钟后期：官方推荐半肉流 vs 不死鸟续航流 实测对比](./assets/ui_03_late_15min.png)
 
 ---
 
-以上就是这次赵云调整与 S45 装备合成梳理后，我对打野半肉流和几套变阵的一点测试与实战体会。其实出装本身是活的，大家也不用死记硬背表格里的每一个数字，只要记住 **「5分钟先陨星合黑切、8分半冰痕后立刻补陨星升大红刀（顺风可转宗师）、10分钟前补神隐斗篷看局势合黄盾或不死鸟、最后一件看前排硬度选暴烈或碎星锤」** 这个大框架，排位里基本就能应对绝大多数阵容了。如果大家平时有其他好用的赵云出装思路，也欢迎在评论区一起交流。
+总结来看，当前版本打野赵云的出装核心框架可以归纳为：**5分钟先由陨星合成暗影战斧保证抓人斩杀线；8分半做完冰痕之握（撑起660物防）后补陨星升级贪婪之噬（拉满32.5%冷却与495移速，大顺风可转宗师之力）；9分半双龙团前补出神隐斗篷（将法防拉至393），后续视敌方法师威胁程度合成为怒龙剑盾、不死鸟之眼或魔女斗篷；最后一件根据敌方前排护甲选择暴烈之甲（补物防与增伤）或碎星锤（补双穿与移速）**。如果有其他实用的赵云出装思路，欢迎在评论区一起交流。
 
 > **工具地址：**
 > 1. 手机端：直接搜小程序 **【王者出装箱】** 即点即用
